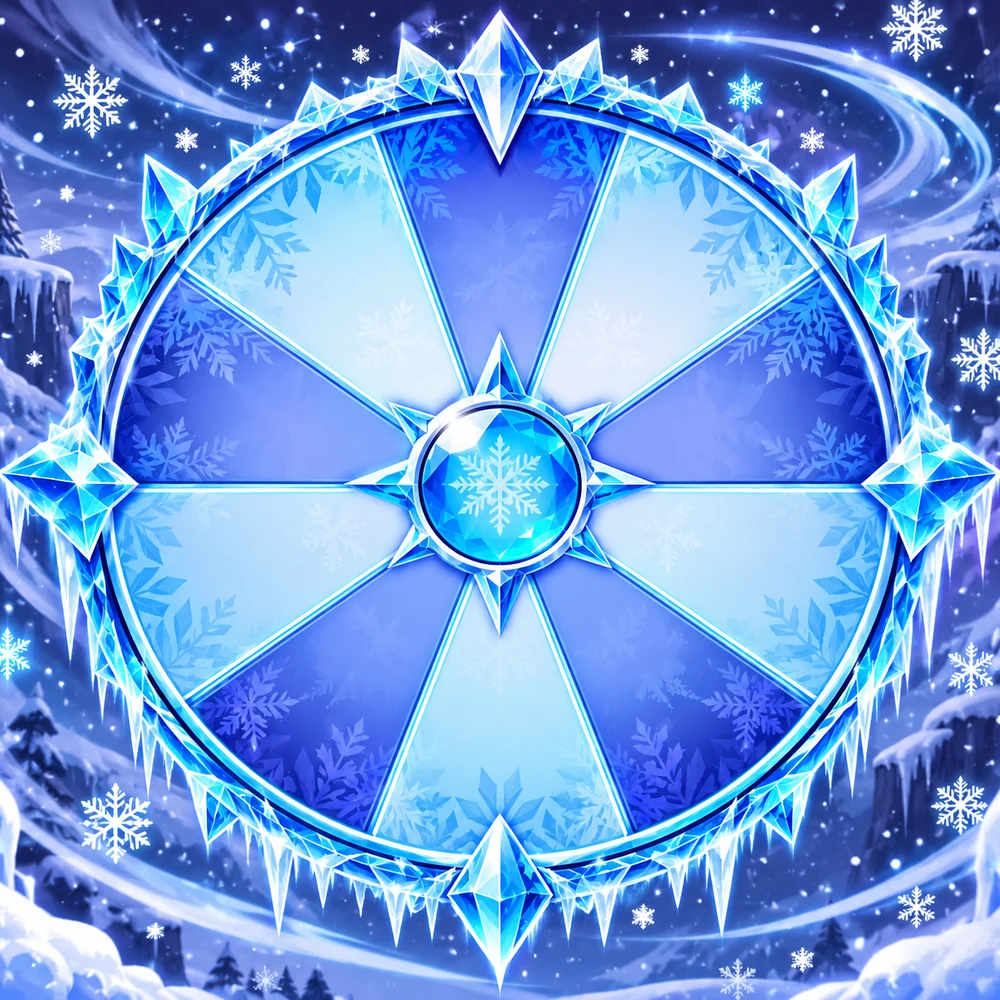
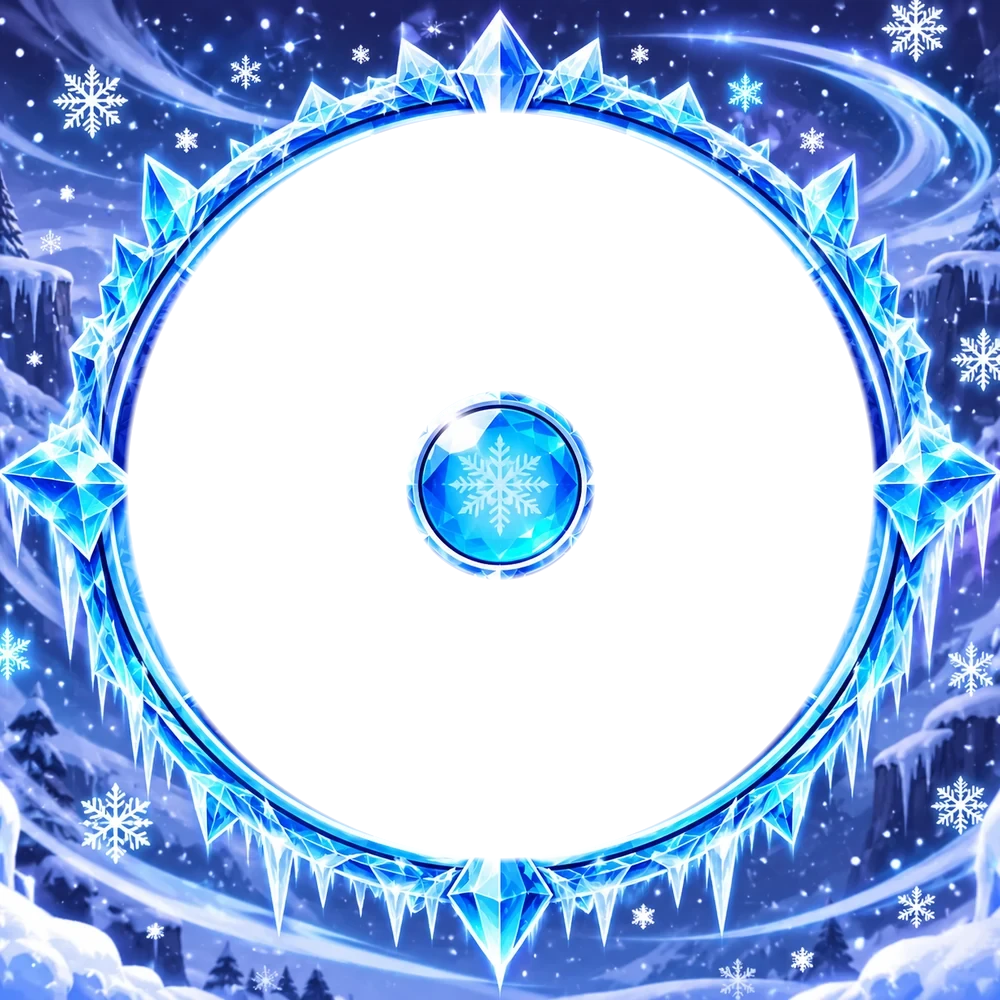
update

diff --git a/js/student.js b/js/student.js
@@ -1,20 +1,20 @@
 import {
   checkVersion, hitOn, gearInSeason, applyDisplayNames, companionOf, petCreatures, pinnedBadgeHTML, DAYS, SHORT, ROSTER, GEAR, SIDEKICKS, BANNER, bannerFor, isHaunt, battleOn, candyOf, basketHTML, CANDY_FULL, bossState, attacksReady, bossBarHTML, GHOST_IMG, ghostUnlocked, turkeyUnlocked, grinchUnlocked, isJingle, isFrost, yetiUnlocked, eventMode, isGobble, setSeason, SEASON, seasonOf, STORE, candyLeft, candySpent, ownedCount, ownsItem, storeArt, nextAttack, dmgOf, HAT_BONUS, BREW_BONUS, teamHTML, wallHTML, WHEEL, pickSlice, wheelHTML, spinTo, PRIZES, prizeSlices, bucketState, bucketHTML, baseDamage, EAT_PER_DAY, dayEaten, dayXP, byId, esc, arr5, recordedDays, goalXP,
   simulate, wornItem, tier, boardDay, sidekickToday, sidekickSVG, petHTML as petBase, itemArt, potionFx
-} from "./game.js?v=20261006y";
-import { EVENT_LIST, TEAM_EVENTS, eventOn, teamCard, teamOf as tevTeamOf } from "./teams.js?v=20261006y";
-import { questTab, questOverlay, questClick, questBusy } from "./quest-ui.js?v=20261006y";
-import { readyTests, heldWeapon, weaponsOwned, weapon } from "./quest.js?v=20261006y";
-import { PREVIEW, configured, auth, studentRef, watchClass, watchStudents, watchMyBattles, watchMyTrades, anonSignIn, onAuthStateChanged, updateDoc } from "./db.js?v=20261006y";
-import { nudgeCard } from "./nudges.js?v=20261006y";
-import { badgesTab, newlyEarned, badgeParty, unseenBadges } from "./badges.js?v=20261006y";
-import { teacherPlayer, hasStarter } from "./collect.js?v=20261006y";
-import { onTradeClick, onTradeChange, onTradeReady, settleTrades } from "./trade-ui.js?v=20261006y";
-import { goalTier, GOAL_CANDY, SEASON_LEGENDARY, doorsLive, doorsFor, dayDoors, doorState, doorLocked, gateOpen, allDone, goldenReady, rollPresent, rewardText, REWARD_XP, DOOR_GATE, DOOR_ART, doorName, isFree, doorText, gateLabel, hasLocked, weekGoal, weekKey, weekTotal, weekDoorState } from "./doors.js?v=20261006y";
-import { azToday } from "./collect.js?v=20261006y";
+} from "./game.js?v=20261006z";
+import { EVENT_LIST, TEAM_EVENTS, eventOn, teamCard, teamOf as tevTeamOf } from "./teams.js?v=20261006z";
+import { questTab, questOverlay, questClick, questBusy } from "./quest-ui.js?v=20261006z";
+import { readyTests, heldWeapon, weaponsOwned, weapon } from "./quest.js?v=20261006z";
+import { PREVIEW, configured, auth, studentRef, watchClass, watchStudents, watchMyBattles, watchMyTrades, anonSignIn, onAuthStateChanged, updateDoc } from "./db.js?v=20261006z";
+import { nudgeCard } from "./nudges.js?v=20261006z";
+import { badgesTab, newlyEarned, badgeParty, unseenBadges } from "./badges.js?v=20261006z";
+import { teacherPlayer, hasStarter } from "./collect.js?v=20261006z";
+import { onTradeClick, onTradeChange, onTradeReady, settleTrades } from "./trade-ui.js?v=20261006z";
+import { goalTier, GOAL_CANDY, SEASON_LEGENDARY, doorsLive, doorsFor, dayDoors, doorState, doorLocked, gateOpen, allDone, goldenReady, rollPresent, rewardText, REWARD_XP, DOOR_GATE, DOOR_ART, doorName, isFree, doorText, gateLabel, hasLocked, weekGoal, weekKey, weekTotal, weekDoorState } from "./doors.js?v=20261006z";
+import { azToday } from "./collect.js?v=20261006z";
 import { roomHTML, FIT_SLOTS, slotKind, KIND_NAMES, KIND_ICON, EVERYDAY_PRICE, THEMED_PRICE, TROPHY_PRICE, TYPE_THEMES, SEASON_THEMES, THEME_NAMES, TROPHIES,
-  itemArt as roomArt, itemName, parseItem, owned as roomOwned, bought as roomBought, STARTERS as ROOM_STARTERS, fitOf, cpLeft, cpEarned, everydayItems, setItems, setPrice, liveSeason, trophyUnlocked, itemId } from "./room.js?v=20261006y";
-import { collectorTab, overlays as collectorOverlays, onClick as collectorClick, isBusy as collectorBusy } from "./collector-ui.js?v=20261006y";
+  itemArt as roomArt, itemName, parseItem, owned as roomOwned, bought as roomBought, STARTERS as ROOM_STARTERS, fitOf, cpLeft, cpEarned, everydayItems, setItems, setPrice, liveSeason, trophyUnlocked, itemId } from "./room.js?v=20261006z";
+import { collectorTab, overlays as collectorOverlays, onClick as collectorClick, isBusy as collectorBusy } from "./collector-ui.js?v=20261006z";
 
 let fxFor = null;   // the student whose companion is being drawn (for the potion glow)
 const petHTML = (c, worn, held) => { const h = petBase(c, worn, held), fx = fxFor ? potionFx(fxFor) : ""; return fx ? h.replace('class="petwrap', 'class="petwrap' + fx) : h; };

diff --git a/js/teacher.js b/js/teacher.js
@@ -1,21 +1,21 @@
-import { newlyEarned, badgeById, fullWeekCount, bestFullWeekRun } from "./badges.js?v=20261006y";
-import { questTracker, questTeacherClick, questTeacherChange } from "./quest-ui.js?v=20261006y";
-import { onTradeClick, onTradeChange, onTradeReady, settleTrades } from "./trade-ui.js?v=20261006y";
-import { cpEarnedCalc } from "./room.js?v=20261006y";
-import { TEAM_EVENTS, EVENT_LIST, PER_XP, eventOn, teams as tevTeams, teamOf as tevTeamOf, teamDay, recipeChanged, brewRewards, standings as tevStandings, topTeams, brewCount, legField, topField } from "./teams.js?v=20261006y";
-import { GOAL_SUBJECTS, DOOR_DEFAULT, DOOR_GATE, DOOR_NAMES, doorsFor, doorsLive, autoDoors, FAST_RING, waitingDoors, doorXPRows, REWARD_XP, WEEK_DOOR_XP, weekKey, weekGoal, weekTotal } from "./doors.js?v=20261006y";
-import { collectorTab, overlays as collectorOverlays, onClick as collectorClick, isBusy as collectorBusy } from "./collector-ui.js?v=20261006y";
+import { newlyEarned, badgeById, fullWeekCount, bestFullWeekRun } from "./badges.js?v=20261006z";
+import { questTracker, questTeacherClick, questTeacherChange } from "./quest-ui.js?v=20261006z";
+import { onTradeClick, onTradeChange, onTradeReady, settleTrades } from "./trade-ui.js?v=20261006z";
+import { cpEarnedCalc } from "./room.js?v=20261006z";
+import { TEAM_EVENTS, EVENT_LIST, PER_XP, eventOn, teams as tevTeams, teamOf as tevTeamOf, teamDay, recipeChanged, brewRewards, standings as tevStandings, topTeams, brewCount, legField, topField } from "./teams.js?v=20261006z";
+import { GOAL_SUBJECTS, DOOR_DEFAULT, DOOR_GATE, DOOR_NAMES, doorsFor, doorsLive, autoDoors, FAST_RING, waitingDoors, doorXPRows, REWARD_XP, WEEK_DOOR_XP, weekKey, weekGoal, weekTotal } from "./doors.js?v=20261006z";
+import { collectorTab, overlays as collectorOverlays, onClick as collectorClick, isBusy as collectorBusy } from "./collector-ui.js?v=20261006z";
 import {
   applyDisplayNames, displayNames, firstLast, companionOf, DAYS, SHORT, ROSTER, ITEMS, GEAR, BANNER, byId, esc, arr5, five, recordedDays, goalXP,
   simulate, wornItem, tier, boardDay, sidekickToday, keepHTML, itemArt, isHaunt, battleOn, candyOf, CANDY_FULL, weekCandy, battleHTML, bossState, ghostUnlocked, STORE, candyLeft, storeArt, dmgOf, baseDamage,
   bucketState, bucketHTML, finalizePreview, dateOfDay, BUCKET_PER_MISS, WHEEL, PRIZES,
   checkVersion, APP_V, hitOn, carryRun, weekCut, gearInSeason, eventMode, isGobble, setSeason, SEASON, seasonOf, SEASONS, GOBBLE_FROM, GOBBLE_TO, turkeyUnlocked, isJingle, isFrost, yetiUnlocked, wallMarks, WALL_BLOCK, BOSS_START_HP, JINGLE_FROM, JINGLE_TO, grinchUnlocked, SIDEKICKS
-} from "./game.js?v=20261006y";
-import { pickleLeft, staleBattle, EVENTS, eventOpen, tradeOpen, birthdayLeft, teacherPlayer, teacherReward, TEACHER_XP_PER_MISS, hasStarter, duckWindow, duckOpen, azToday, azNow, xpTotal, pullsLeft, legendaryLeft, bankXP, ownedFams, seenSet, arenaOpen, ARENA_HOURS, CREATURES, family, creature, formOf } from "./collect.js?v=20261006y";
+} from "./game.js?v=20261006z";
+import { pickleLeft, staleBattle, EVENTS, eventOpen, tradeOpen, birthdayLeft, teacherPlayer, teacherReward, TEACHER_XP_PER_MISS, hasStarter, duckWindow, duckOpen, azToday, azNow, xpTotal, pullsLeft, legendaryLeft, bankXP, ownedFams, seenSet, arenaOpen, ARENA_HOURS, CREATURES, family, creature, formOf } from "./collect.js?v=20261006z";
 import { watchTrades, watchBattles,
   configured, auth, classRef, studentRef, newStudentRef, isTeacherEmail, watchClass, watchStudents,
   teacherSignIn, onAuthStateChanged, signOut, setDoc, updateDoc, deleteDoc, writeBatch, db, changeBattle, battleRef, tradeRef
-} from "./db.js?v=20261006y";
+} from "./db.js?v=20261006z";
 
 /* ================= state ================= */
 let user = null, cls = null, clsLoaded = false, students = [], studentsLoaded = false;

diff --git a/js/game.js b/js/game.js
@@ -1,9 +1,9 @@
-import { formOf, sparkleImg, azNow, azToday } from "./collect.js?v=20261006y";
-import { heldWeapon } from "./quest.js?v=20261006y";
+import { formOf, sparkleImg, azNow, azToday } from "./collect.js?v=20261006z";
+import { heldWeapon } from "./quest.js?v=20261006z";
 // Shared rules + drawing for the teacher console and the student page.
 // The code version. Bump it with every update (it matches the ?v= tags). The teacher console saves it on the class;
 // any page still running older code (a tab left open all day) reloads itself so everyone plays with the same rules.
-export const APP_V = "20261006y";
+export const APP_V = "20261006z";
 export function checkVersion(cls, isTeacher, save) {
   const live = (cls && cls.appVersion) || "";
   if (isTeacher && APP_V > live && save) save(APP_V);
@@ -748,7 +748,7 @@ export const PRIZES = [
   { name: "Ghost Sticker", short: "Ghost Sticker", icon: "\u{1F47B}", img: "assets/prizes/prize-1.png", link: "https://a.co/d/0bfdSD1g", kind: "treat" },
   { name: "100 XP", icon: "\u2B50", img: "", link: "", kind: "trick", xp: 100, chance: 0.30 },
   { name: "Ghost Straw Toppers", short: "Straw Ghosts", icon: "\u{1F47B}", img: "assets/prizes/prize-2.png", link: "https://a.co/d/01HySKGX", kind: "treat" },
-  { name: "Ghost Tumbler", icon: "\u{1F964}", img: "assets/prizes/prize-tumbler.png", link: "https://a.co/d/05GhiRAe", kind: "trick", rare: true, chance: 0.01 },
+  { name: "Ghost Glass Cup", short: "Ghost Cup", icon: "\u{1F964}", img: "assets/prizes/prize-ghostcup.png", link: "https://a.co/d/08GLsFV6", kind: "trick", rare: true, chance: 0.01 },
   { name: "Holographic Halloween Sticker Pack", short: "Stickers", icon: "\u2728", img: "assets/prizes/prize-3.png", link: "https://a.co/d/08s3F0Kq", kind: "treat" },
   { name: "100 XP", icon: "\u2B50", img: "", link: "", kind: "trick", xp: 100, chance: 0.30 },
   { name: "Ghost Pins", icon: "\u{1F47B}", img: "assets/prizes/prize-4.png", link: "https://a.co/d/015lDXCy", kind: "treat" },

diff --git a/js/collector-ui.js b/js/collector-ui.js
@@ -4,13 +4,13 @@ import {
   formIndex, formOf, statsOf, seenSet, rollRarity, doPull, arenaOpen, arenaOpenFor, lunchHour, hitGoalToday, LUNCH_ARENA, ARENA_HOURS, fighterFrom, teamSize, alive, resolve, resolveRound, moveOk, MOVES, hitDamage,
   birthdayLeft, pickleLeft, PICKLE_FAM, brewLegLeft, BREW_FAM, feastLegLeft, HARVEST_FAM, gingerLegLeft, GINGER_FAM, snowLegLeft, SNOW_FAM, goalLeft, nextGoal, rollRareUp, themeLeft, nextTheme, THEME_TYPES, THEME_EGG, WISH_FAM, spares, spareId, releaseXP, releaseProblem, STARTERS, RARITY_COLOR, LEVEL_XP, MAX_LEVEL, PULL_XP, ODDS, isSparkle, sparkleImg, hasSparkleArt,
   EVENTS, eventOpen, eventWindow, eventStreak, hasEvent, eventUnlocked, azToday, rollTeacherRarity, TEACHER_ODDS, LIVE, staleBattle
-} from "./collect.js?v=20261006y";
-import { newBattleRef, changeBattle as changeBattleRaw, setDoc, liveBattlesNow } from "./db.js?v=20261006y";
+} from "./collect.js?v=20261006z";
+import { newBattleRef, changeBattle as changeBattleRaw, setDoc, liveBattlesNow } from "./db.js?v=20261006z";
 // every change to a battle is stamped with the time (upd), so a battle nobody has touched in a while can be ended
 let locking = null, leaving = null;   // battle id while "Lock in team" is saving
 const changeBattle = (id, fn) => changeBattleRaw(id, bt => { const n = fn(bt); if (n) n.upd = new Date().toISOString(); return n; });
 
-import { tradeCard } from "./trade-ui.js?v=20261006y";
+import { tradeCard } from "./trade-ui.js?v=20261006z";
 
 const esc = s => String(s == null ? "" : s).replace(/&/g, "&amp;").replace(/</g, "&lt;").replace(/>/g, "&gt;").replace(/"/g, "&quot;");
 const PER_PAGE = 20;

diff --git a/js/nudges.js b/js/nudges.js
@@ -1,8 +1,8 @@
 // Nudge messages: short, friendly "you're close!" notes at the top of a student's page.
 // Each rule returns a nudge or null; the most useful few are shown (lower pri = shown first).
-import { seasonOf, dayXP, simulate, GEAR, goalXP, arr5, esc, isHaunt, battleOn, nextAttack, companionOf, bossState } from "./game.js?v=20261006y";
-import { brewLegLeft, feastLegLeft, gingerLegLeft, snowLegLeft, pickleLeft, birthdayLeft, EVENTS, eventOpen, eventUnlocked, hasEvent, eventStreak, creature, family, azNow, pullsLeft, legendaryLeft, bankXP, LEVEL_XP, PULL_XP, hasStarter, owned, MAX_LEVEL } from "./collect.js?v=20261006y";
-import { badgeState } from "./badges.js?v=20261006y";
+import { seasonOf, dayXP, simulate, GEAR, goalXP, arr5, esc, isHaunt, battleOn, nextAttack, companionOf, bossState } from "./game.js?v=20261006z";
+import { brewLegLeft, feastLegLeft, gingerLegLeft, snowLegLeft, pickleLeft, birthdayLeft, EVENTS, eventOpen, eventUnlocked, hasEvent, eventStreak, creature, family, azNow, pullsLeft, legendaryLeft, bankXP, LEVEL_XP, PULL_XP, hasStarter, owned, MAX_LEVEL } from "./collect.js?v=20261006z";
+import { badgeState } from "./badges.js?v=20261006z";
 
 const MAX_SHOWN = 3;
 const WEEKDAY = { Mon: 0, Tue: 1, Wed: 2, Thu: 3, Fri: 4 };

diff --git a/js/badges.js b/js/badges.js
@@ -1,10 +1,10 @@
-import { owned as roomOwned, fitOf as roomFit, FIT_SLOTS, setItems as roomSet } from "./room.js?v=20261006y";
-import { presentsOpened } from "./doors.js?v=20261006y";
+import { owned as roomOwned, fitOf as roomFit, FIT_SLOTS, setItems as roomSet } from "./room.js?v=20261006z";
+import { presentsOpened } from "./doors.js?v=20261006z";
 // Badges: worked out from each student's saved data, so nothing extra is stored and no rules change.
 // To add a badge: add an entry with a check(st) that returns how far along the student is,
 // and a goal. Put its picture in assets/badges/ (a transparent WEBP or PNG). Without a picture, the emoji shows.
-import { esc, goalXP, candyOf, ghostUnlocked } from "./game.js?v=20261006y";
-import { seenSet, ownedFams, owned, family, formIndex, formOf, STARTERS, CREATURES } from "./collect.js?v=20261006y";
+import { esc, goalXP, candyOf, ghostUnlocked } from "./game.js?v=20261006z";
+import { seenSet, ownedFams, owned, family, formIndex, formOf, STARTERS, CREATURES } from "./collect.js?v=20261006z";
 
 export const hatches = st => (Number(st.pullsUsed) || 0) + (Number(st.legendaryUsed) || 0);
 

diff --git a/js/trade-ui.js b/js/trade-ui.js
@@ -8,9 +8,9 @@
 // (spares don't count), limited event creatures (Duckarune, Hexaduck) can't be traded, and not during a battle.
 // Trading follows the same schedule as the arena (its own switches in the teacher console), and a player has to
 // tick "I'm ready to trade" (tradeReady) before anyone can send them an offer.
-import { esc } from "./game.js?v=20261006y";
-import { seenSet, owned, ownedFams, family, formOf, creature, RARITY_COLOR, hasStarter, spares, spareId, tradeOpen, tradeOpenFor, lunchHour, hitGoalToday, ARENA_HOURS, LUNCH_ARENA, LIVE, staleBattle } from "./collect.js?v=20261006y";
-import { newTradeRef, changeTrade, setDoc } from "./db.js?v=20261006y";
+import { esc } from "./game.js?v=20261006z";
+import { seenSet, owned, ownedFams, family, formOf, creature, RARITY_COLOR, hasStarter, spares, spareId, tradeOpen, tradeOpenFor, lunchHour, hitGoalToday, ARENA_HOURS, LUNCH_ARENA, LIVE, staleBattle } from "./collect.js?v=20261006z";
+import { newTradeRef, changeTrade, setDoc } from "./db.js?v=20261006z";
 
 let pick = { who: "", theirs: "", mine: "" };
 let settling = {};

diff --git a/js/quest-ui.js b/js/quest-ui.js
@@ -1,8 +1,8 @@
 // Grade Level Quest screens: the student's road + guardian battles, and the teacher's tracker.
-import { esc } from "./game.js?v=20261006y";
-import { owned, ownedFams, fighterFrom, formOf, resolveRound, hitDamage, alive, MOVES, RARITY_COLOR } from "./collect.js?v=20261006y";
+import { esc } from "./game.js?v=20261006z";
+import { owned, ownedFams, fighterFrom, formOf, resolveRound, hitDamage, alive, MOVES, RARITY_COLOR } from "./collect.js?v=20261006z";
 import { SUBJECTS, GRADES, ROAD_SPOTS, roadArt, battleArt, QUEST_XP, QUEST_CP, WEAPON_KINDS, weapon, weaponId, qKey, startOf, passOf, doneOf,
-  testState, currentGrade, doneCount, readyTests, weaponsOwned, heldWeapon } from "./quest.js?v=20261006y";
+  testState, currentGrade, doneCount, readyTests, weaponsOwned, heldWeapon } from "./quest.js?v=20261006z";
 
 const SUBJ = Object.fromEntries(SUBJECTS.map(([k, n, i]) => [k, { n, i }]));
 let qb = null;   // the guardian battle in progress (only on this page; nothing is saved until the student wins)

diff --git a/js/room.js b/js/room.js
@@ -5,9 +5,9 @@
    Saved on the student: cpEarned (teacher writes), cpSpent, roomOwned [item ids], roomFit { slot: id }, roomBuys [{ id, cost, at }].
    Item ids are "{kind}_{theme}" (e.g. bed_dragon); art is assets/room/{id}.webp. Trophies are trophy_{season}.
    The room picture is 1536x1024; everything below is placed in % of that. */
-import { azToday } from "./collect.js?v=20261006y";
-import { questCP } from "./quest.js?v=20261006y";
-import { esc } from "./game.js?v=20261006y";
+import { azToday } from "./collect.js?v=20261006z";
+import { questCP } from "./quest.js?v=20261006z";
+import { esc } from "./game.js?v=20261006z";
 
 // Themes that have art so far. Add a theme name here once its 9 pieces are in assets/room/.
 export const TYPE_THEMES = ["fire", "water", "nature", "rock", "sky", "electric", "ice", "light", "dark", "ghost", "poison", "steel", "arcane", "crystal", "dragon"];

diff --git a/index.html b/index.html
@@ -6,7 +6,7 @@
 <title>Companion Keep · Teacher</title>
 <link rel="icon" href="assets/axolotl.png">
 <link rel="stylesheet" href="https://fonts.googleapis.com/css2?family=Bricolage+Grotesque:opsz,wght@12..96,600;12..96,800&family=Karla:wght@400;500;700&family=DM+Mono:wght@400;500&display=swap">
-<link rel="stylesheet" href="css/style.css?v=20261006y">
+<link rel="stylesheet" href="css/style.css?v=20261006z">
 </head>
 <body>
 <div class="wrap" id="wrap">
@@ -53,6 +53,6 @@
 </div>
 <canvas id="fx" hidden style="position:fixed;inset:0;pointer-events:none;z-index:60;"></canvas>
 <script src="https://cdnjs.cloudflare.com/ajax/libs/xlsx/0.18.5/xlsx.full.min.js"></script>
-<script type="module" src="js/teacher.js?v=20261006y"></script>
+<script type="module" src="js/teacher.js?v=20261006z"></script>
 </body>
 </html>

diff --git a/js/doors.js b/js/doors.js
@@ -8,8 +8,8 @@
    Saved on the student: doors = { "YYYY-MM-DD": { "0": { st: "wait"|"ok"|"no"|"open", at, r }, g: { st: "open", r } } }
    plus lastDoor = "YYYY-MM-DD/<door>" (which door the last save touched; the save rules check it).
    Class: doorsOn (on/off), doorList (default list), doorDays = { "YYYY-MM-DD": [..] } (one-day lists). */
-import { azToday } from "./collect.js?v=20261006y";
-import { SEASON, eventMode, esc, dayXP, WEEK_DOOR_XP, weekKey, weekGoal } from "./game.js?v=20261006y";
+import { azToday } from "./collect.js?v=20261006z";
+import { SEASON, eventMode, esc, dayXP, WEEK_DOOR_XP, weekKey, weekGoal } from "./game.js?v=20261006z";
 
 // A door that starts with "!" is always open (not locked behind the first doors). The "!" isn't shown.
 export const DOOR_DEFAULT = [

diff --git a/js/teams.js b/js/teams.js
@@ -6,8 +6,8 @@
    Saved on the class (p = the event's prefix, e.g. "potion" or "feast"):
      <p>On, <p>Teams [{ id, name, members }], <p>Recipe { date: { teamId: { e, b, s } } }, <p>Brews { date: [teamId] }, <p>Top { at, teams }
    Saved on the student: <p>Days { date: { team, fx? } } (days done + rewards given), <p>LegEggs (special Legendary eggs from the top team) */
-import { isHaunt, isGobble, isJingle, isFrost, esc } from "./game.js?v=20261006y";
-import { azToday } from "./collect.js?v=20261006y";
+import { isHaunt, isGobble, isJingle, isFrost, esc } from "./game.js?v=20261006z";
+import { azToday } from "./collect.js?v=20261006z";
 
 export const PER_XP = 25;
 // The Feast Table: one dish shows up on a team's table for every menu it finishes (the 10th finishes the feast).
